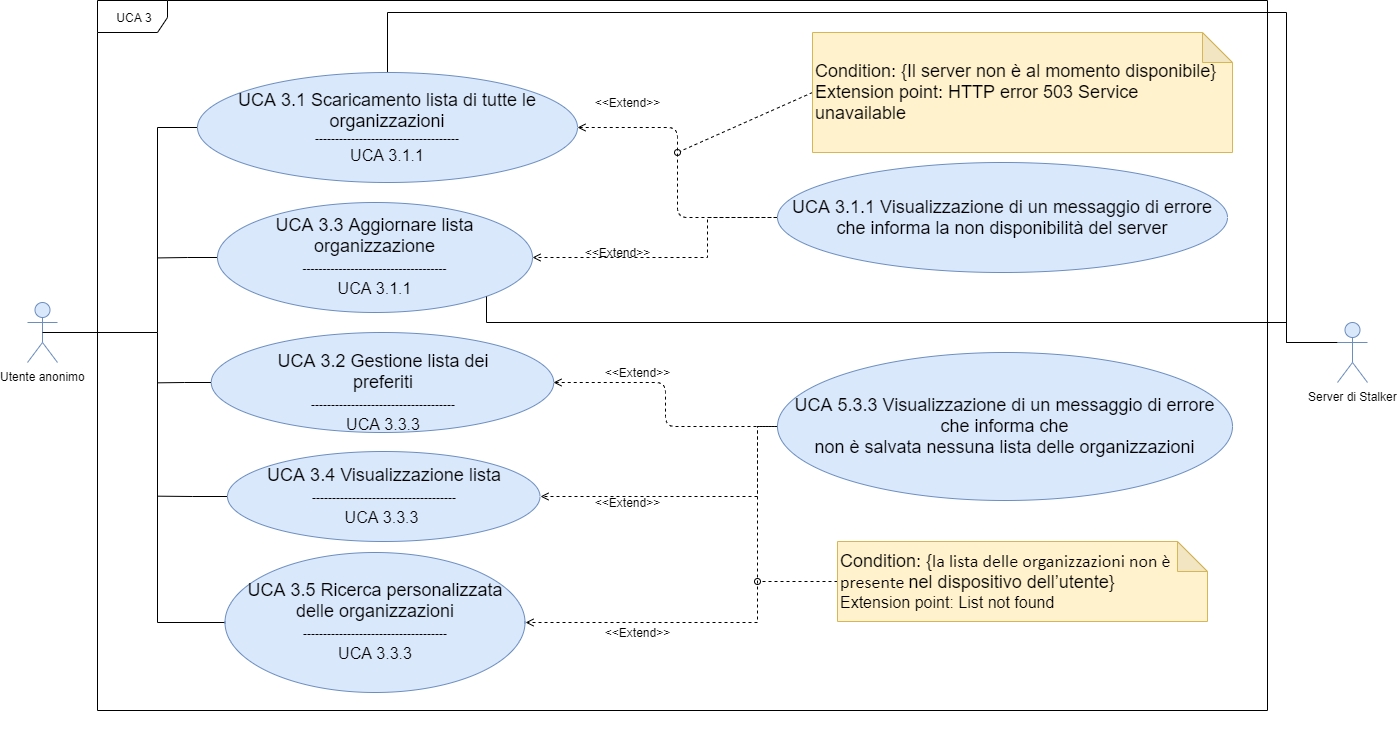
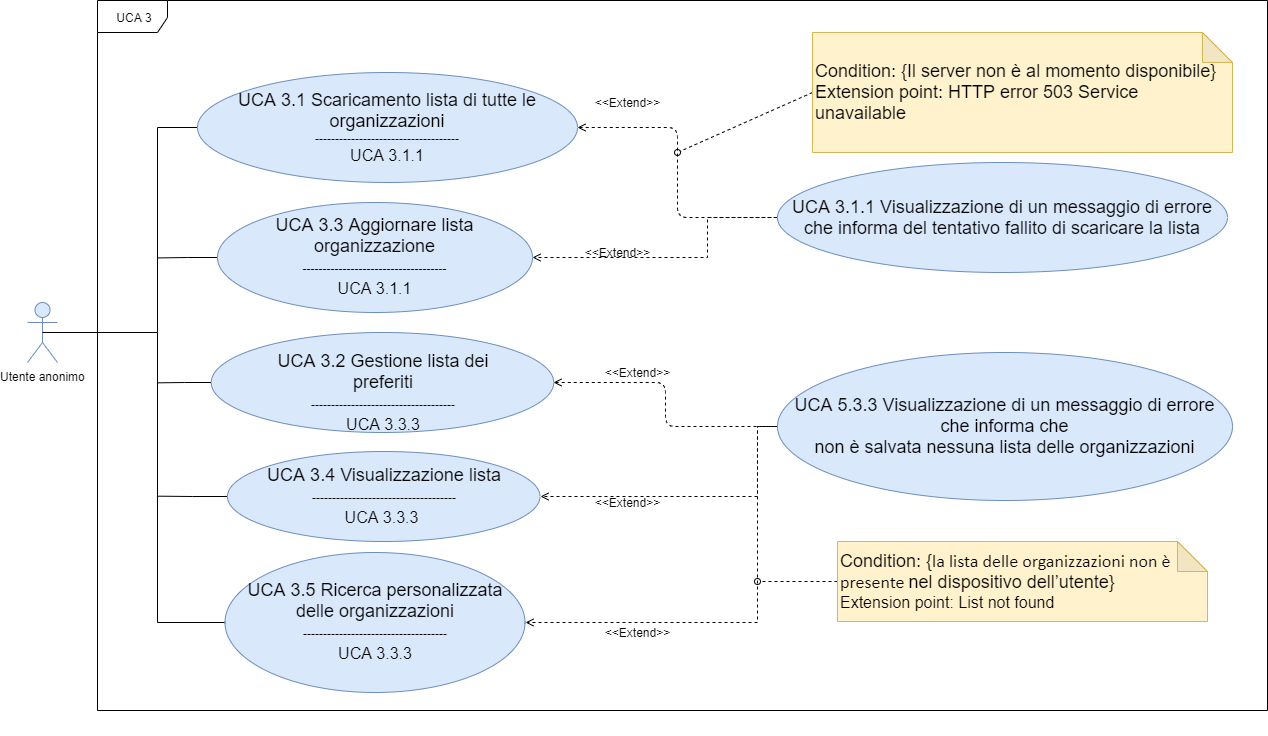
Fix UC3

diff --git a/DocumentazioneEsterna/AnalisiRequisiti/sezioni/UseCase/UCA3.tex b/DocumentazioneEsterna/AnalisiRequisiti/sezioni/UseCase/UCA3.tex
@@ -7,7 +7,6 @@
 \section{UCA 3 - Gestione lista delle organizzazioni}%kite level
 \begin{itemize}
 \item \textbf{Attori primari:} Utente anonimo;
-\item \textbf{Attori secondari:} Server di Stalker;
 \item \textbf{Precondizione:} L’utente che è stato autenticato precedentemente, esso può usufruire delle funzionalità di gestione lista delle organizzazioni;
 \item \textbf{Postcondizione:} vengono forniti all’utente i risultati delle funzionalità disponibili;
 \item \textbf{Scenario principale:} L’utente dell’applicazione autenticato utilizza le funzioni di gestione delle liste di organizzazioni per fare le seguenti azioni:
@@ -23,22 +22,21 @@
 \subsection{UCA 3.1 - Scaricamento lista di tutte le organizzazioni}%sea level
 \begin{itemize}
 \item \textbf{Attori primari:} Utente anonimo;
-\item \textbf{Attori secondari: } Server di Stalker;
 \item \textbf{Precondizione:} Viene reso disponibile all’utente anonimo la funzionalità di scaricare la lista di tutte le organizzazioni;
 \item \textbf{Postcondizione:}Viene reso disponibile il risultato richiesto dall’utente anonimo
 \item \textbf{Scenario principale:} 
 \begin{itemize}
 	\item L'utente selezione l'esecuzione della funzione "Scaricamento della lista";
 \end{itemize}
-\item \textbf{Scenario alternativo:}  Se il server stalker non è disponibile viene visualizzato all’utente un messaggio di errore che lo informa di tale problema;
+\item \textbf{Scenario alternativo:}  Se avviene un errore durante lo scaricamento della lista viene visualizzato all’utente un messaggio di errore che lo informa di tale problema;
 \item \textbf{Estensioni:}
 	\begin{enumerate}
-	\item UCA 3.1.1 Visualizzazione di un messaggio di errore che informa la non disponibilità del server.
+	\item UCA 3.1.1 Visualizzazione di un messaggio di errore che informa del tentativo fallito di scaricare la lista.
 \end{enumerate}
   
 \end{itemize}
 
-\subsubsection{UCA 3.1.1 - Visualizzazione di un messaggio di errore che informa la non disponibilità del server}%fish level
+\subsubsection{UCA 3.1.1 - Visualizzazione di un messaggio di errore che informa del tentativo fallito di scaricare la lista}%fish level
 \begin{itemize}
 \item \textbf{Attori primari:} Utente anonimo;
 \item \textbf{Precondizione:} Il Server non è attualmente disponibile;
@@ -94,7 +92,6 @@
 \subsection{UCA 3.3 - Aggiornare lista organizzazione}%sea level
 \begin{itemize} 
 	\item \textbf{Attori primari:} Utente anonimo;
-	\item \textbf{Attori secondari:} Server di Stalker;
 	\item \textbf{Precondizione:} Viene reso disponibile all’utente anonimo la funzionalità di aggiornamento della lista di tutte le organizzazioni;
 	\item \textbf{Postcondizione:} Viene reso disponibile il risultato richiesto dall’utente anonimo;
 	\item \textbf{Scenario principale:}  L’utente accede alla funzione "Aggiornamento della lista" attraverso una delle due modalità disponibili
@@ -102,17 +99,16 @@
 		\item UCA 3.3.1 Aggiornamento lista organizzazione con refresh manuale;
 		\item UCA 3.3.2 Aggiornamento lista organizzazione con temporizzazione.
 	\end{itemize}
-	\item \textbf{Scenario alternativo:} Se il server stalker non è disponibile viene visualizzato all’utente autenticato un messaggio di errore che lo informa di tale problema;
+	\item \textbf{Scenario alternativo:} Non c'è alcuna lista salvata nel dispositivo e quindi niente da aggiornare, viene visualizzato all’utente autenticato un messaggio di errore che lo informa di tale problema;
 	\item \textbf{Estensioni:}
 	\begin{enumerate}
-		\item UCA 3.3.3 Visualizzazione di un messaggio che informa la non disponibilità del server.
+		\item UCA 3.3.3 Visualizzazione di un messaggio di errore che informa che non è salvata nessuna lista delle organizzazioni.
 	\end{enumerate}
 \end{itemize}
 
 \subsubsection{UCA 3.3.1 - Aggiornare lista organizzazione con refresh manuale}%fish level
 \begin{itemize}
 	\item \textbf{Attori primari:} Utente anonimo;
-	\item \textbf{Attori secondari:} Server di Stalker;
 	\item \textbf{Precondizione:} Viene reso disponibile all’utente anonimo l’aggiornamento della lista dell’organizzazione attraverso la modalità refresh manuale;
 	\item \textbf{Postcondizione:} Viene ottenuto il risultato richiesto dall’utente anonimo.
 	
@@ -121,7 +117,6 @@
 \subsubsection{UCA 3.3.2 - Aggiornare lista organizzazione con temporizzazione}%fish level
 \begin{itemize} 
 	\item \textbf{Attori primari:} Utente anonimo;
-	\item \textbf{Attori secondari:} Server di Stalker;
 	\item \textbf{Precondizione:} Viene reso disponibile all’utente anonimo l’aggiornamento della lista dell’organizzazione attraverso la modalità temporizzazione; 	
 	\item \textbf{Postcondizione:} Viene ottenuto il risultato richiesto dall’utente anonimo
 \end{itemize}

diff --git a/DocumentazioneEsterna/AnalisiRequisiti/sezioni/UCsection.tex b/DocumentazioneEsterna/AnalisiRequisiti/sezioni/UCsection.tex
@@ -4,8 +4,6 @@
 \input{sezioni/UseCase/UCA4.tex}
 \input{sezioni/UseCase/UCA5.tex}
 \input{sezioni/UseCase/UCA6.tex}
-%\input{sezioni/UseCase/UCA7.tex}
-%\input{sezioni/UseCase/UCA8.tex}
 \input{sezioni/UseCase/UCS1.tex}
 \input{sezioni/UseCase/UCS2.tex}
 \input{sezioni/UseCase/UCSModificaDatiOrg.tex}
